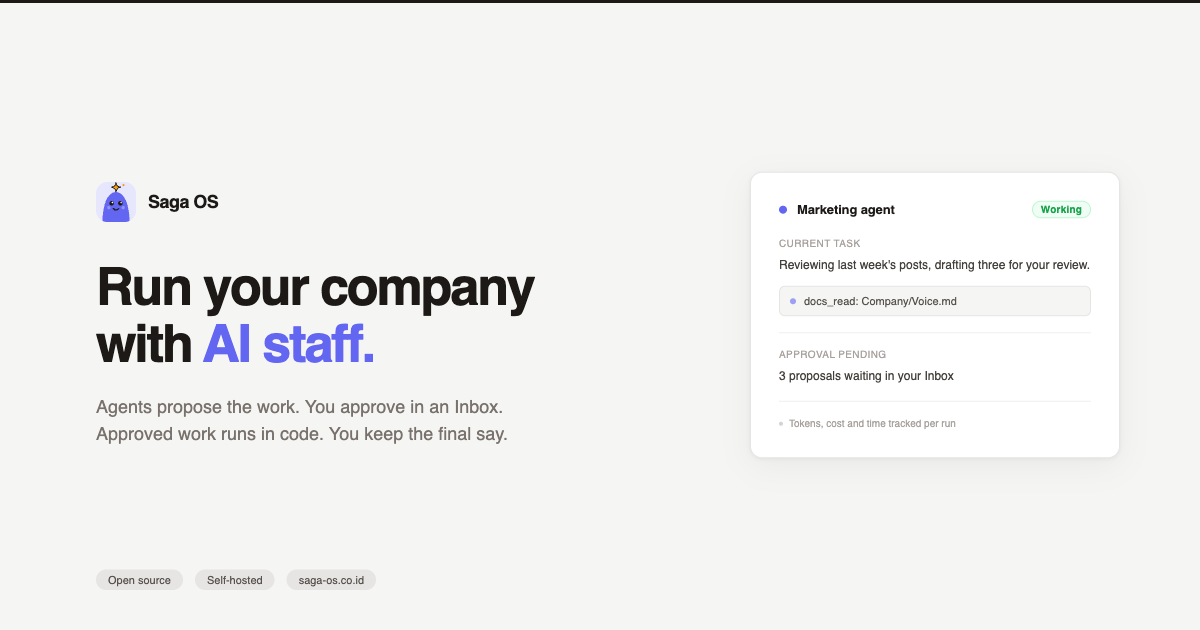
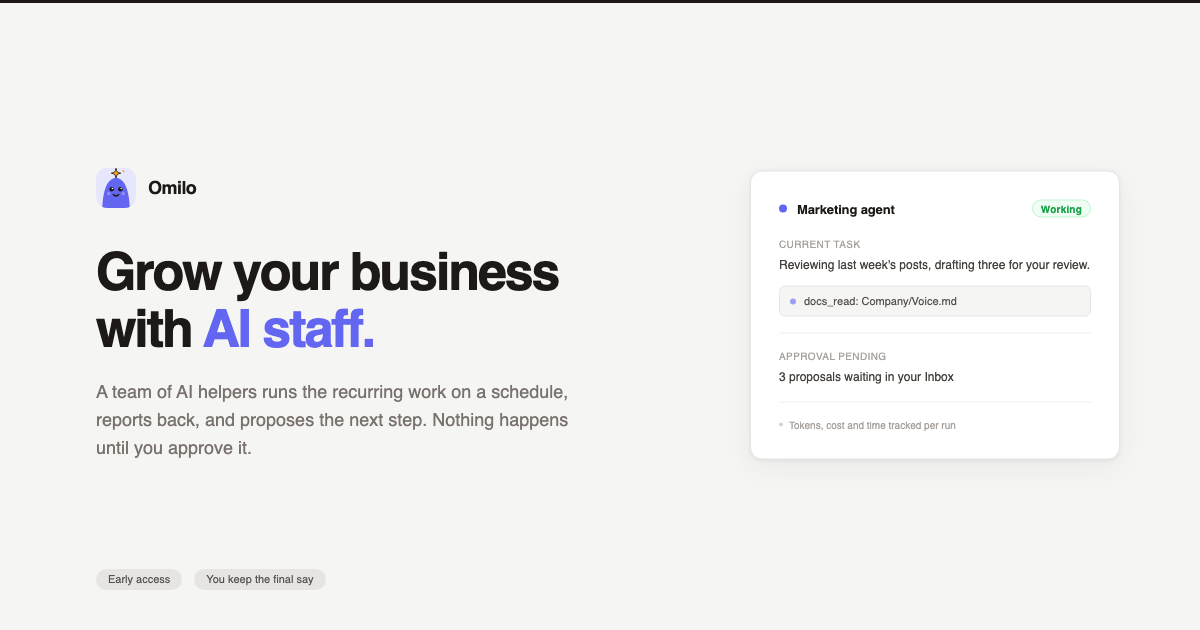
Refresh social preview card to Omilo branding
OG image was stale (said 'Saga OS', 'Run your company', open-source/self-host
pills, old domain). Regenerate 1200x630 card: Omilo brand, 'Grow your business
with AI staff', honest early-access framing. Static PNG is the universal preview
that renders on all platforms (GIFs do not animate in link previews).

diff --git a/public/og/social-preview.html b/public/og/social-preview.html
@@ -87,8 +87,8 @@
       <svg class="logo-svg" xmlns="http://www.w3.org/2000/svg" viewBox="0 0 64 64"><defs><clipPath id="t"><rect width="64" height="64" rx="18"/></clipPath></defs><g clip-path="url(#t)"><rect width="64" height="64" fill="#fff"/><rect width="64" height="64" fill="#6366f1" opacity=".16"/><path d="M10 70 C10 34 19 16 32 16 C45 16 54 34 54 70 Z" fill="#6366f1"/><circle cx="25" cy="34" r="3.6" fill="#1c1917"/><circle cx="39" cy="34" r="3.6" fill="#1c1917"/><circle cx="26.2" cy="32.8" r="1.2" fill="#fff"/><circle cx="40.2" cy="32.8" r="1.2" fill="#fff"/><path d="M27.5 42.5 Q32 47 36.5 42.5" stroke="#1c1917" stroke-width="2.2" stroke-linecap="round" fill="none"/><circle cx="20.5" cy="41" r="2.6" fill="#fff" opacity=".3"/><circle cx="43.5" cy="41" r="2.6" fill="#fff" opacity=".3"/><path d="M32 0.5 C33 6 34.3 7.4 39.5 8.3 C34.3 9.2 33 10.6 32 16 C31 10.6 29.7 9.2 24.5 8.3 C29.7 7.4 31 6 32 0.5 Z" fill="#f59e0b" stroke="#1c1917" stroke-width="1.4" stroke-linejoin="round"/><circle cx="44" cy="5" r="1.6" fill="#f59e0b"/></g></svg>
       <span class="logo-name">Omilo</span>
     </div>
-    <div class="headline">Run your company<br>with <span>AI staff.</span></div>
-    <div class="tagline">Agents propose the work. You approve in an Inbox. Approved work runs in code. You keep the final say.</div>
+    <div class="headline">Grow your business<br>with <span>AI staff.</span></div>
+    <div class="tagline">A team of AI helpers runs the recurring work on a schedule, reports back, and proposes the next step. Nothing happens until you approve it.</div>
   </div>
   <div class="workspace-card">
     <div class="wc-header">
@@ -112,9 +112,8 @@
     </div>
   </div>
   <div class="bottom-row">
-    <span class="pill">Open source</span>
-    <span class="pill">Self-hosted</span>
-    <span class="pill">saga-os.co.id</span>
+    <span class="pill">Early access</span>
+    <span class="pill">You keep the final say</span>
   </div>
 </div>
 </body>
